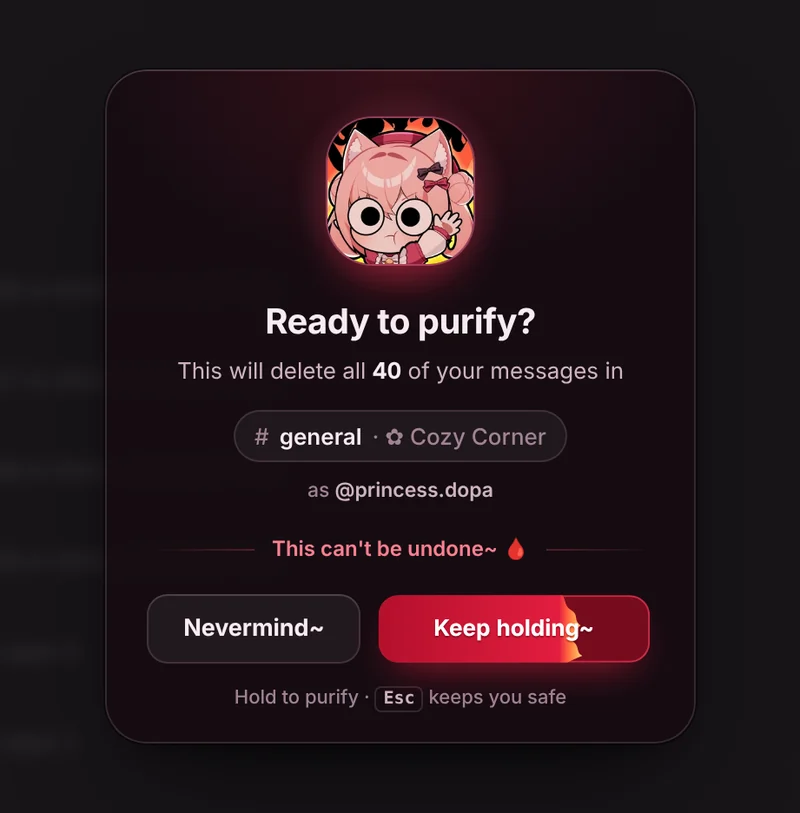
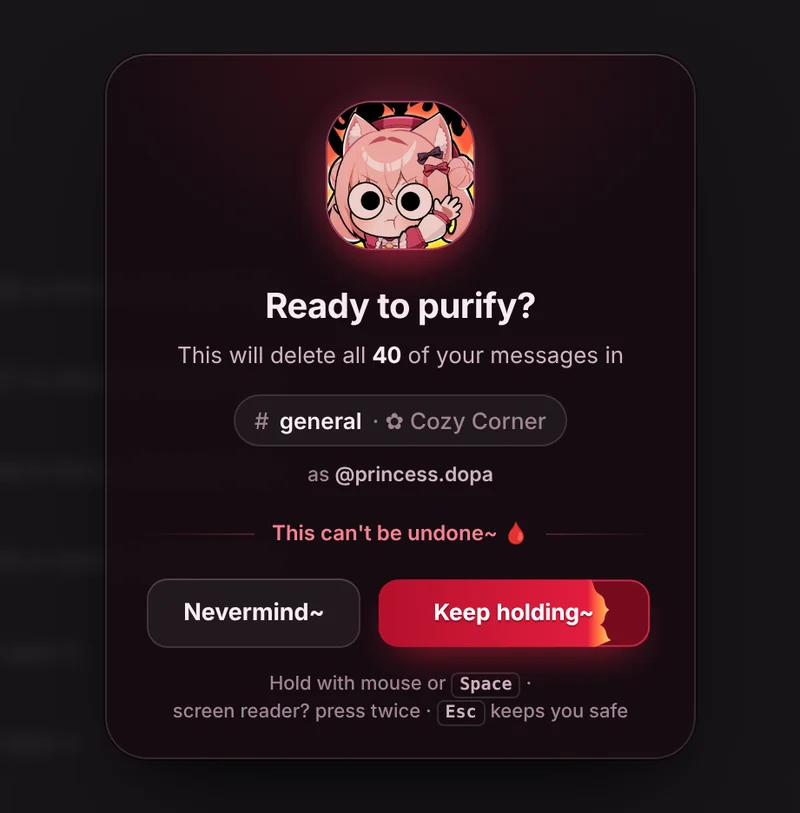
Fix the install-updates regressions and retake the page pictures
1. TIMING is read one key at a time: test/site.mjs (S15), test/shots.mjs
   and tools/marketing.py take the `const TIMING = {...}` block and match
   deleteDelayMs and searchDelayMs within it, so requestTimeoutMs (or any
   new field or reorder) no longer makes the pace check return null.
2. The safety FAQ and README no longer say "talks to Discord and nothing
   else": the userscript talks only to Discord (Tampermonkey fetches its
   updates from GitHub itself), and the BetterDiscord plugin also asks
   GitHub once each time it starts whether there's a new version. No
   servers of ours, no tracking. New site test S20 holds the wording to
   what src/betterdiscord.js does.
3. On phones, "Show the computer steps" hands focus to the pressed browser
   chip (else step 1's heading, tabindex=-1) instead of letting it drop to
   <body> when the button hides itself, and carries aria-expanded and
   aria-controls. New site test S18 presses Enter on it with iPhone and
   Android UAs and fails without the fix.
4. docs/img retaken with the documented pipeline at the shipped pace
   (build, test/shots.mjs --showcase, tools/marketing.py): welcome.webp
   shows "Purify, then hold the red button till it fills", confirm.webp
   the new hold hint, batch.webp the current strip copy; purging.webp
   re-rendered. scanned, done, immune and og.png came out byte-identical.
5. Speed claims follow the panel's own estimate (deleteDelayMs + 250 ms,
[…]

diff --git a/docs/index.html b/docs/index.html
@@ -235,12 +235,12 @@
           <p><b>On your phone, princess? ♡</b> Discord's phone app can't wear the Purifier~ Open this page on your computer and it takes two minutes ✨</p>
           <div class="note-act">
             <button class="btn btn-primary btn-sm" type="button" data-act="send-link">Send me this link</button>
-            <button class="btn btn-quiet btn-sm" type="button" data-act="show-steps" hidden>Show the computer steps</button>
+            <button class="btn btn-quiet btn-sm" type="button" data-act="show-steps" aria-controls="browser-picker setup-steps" aria-expanded="true" hidden>Show the computer steps</button>
           </div>
           <p>Firefox for Android works too: add Tampermonkey, then open discord.com in “Desktop site” mode.</p>
         </div>
       </div>
-      <div class="picker" role="group" aria-label="Your browser">
+      <div class="picker" id="browser-picker" role="group" aria-label="Your browser">
         <span>Your browser:</span>
         <button class="chip" type="button" data-browser="chrome">Chrome</button>
         <button class="chip" type="button" data-browser="edge">Edge</button>
@@ -249,10 +249,10 @@
         <button class="chip" type="button" data-browser="brave">Brave</button>
         <button class="chip" type="button" data-browser="safari">Safari</button>
       </div>
-      <ol class="steps">
+      <ol class="steps" id="setup-steps">
         <li class="step" data-step="manager">
           <div>
-            <h3>Add Tampermonkey to <span data-role="browser-name">Chrome</span></h3>
+            <h3 tabindex="-1">Add Tampermonkey to <span data-role="browser-name">Chrome</span></h3>
             <p data-role="manager-note">Free, made for exactly this. Click <b>Add to <span data-role="browser-name">Chrome</span></b> on the page that opens.</p>
           </div>
           <div class="act"><a class="btn btn-quiet btn-sm" data-role="manager-link" target="_blank" rel="noopener" href="https://www.tampermonkey.net/">Get Tampermonkey</a></div>
@@ -325,7 +325,8 @@
     <div class="eyebrow">Questions</div>
     <h2 id="faq-title">Good to know</h2>
     <details><summary>Is it safe? Does it send my login anywhere?</summary><div>
-      <p>It runs entirely in your own browser, inside Discord, using the session you're already logged in with. It talks to Discord and nothing else — no servers, no tracking. The whole thing is <a href="https://github.com/codemaker66/discord-stuff">open source</a>, so anyone can check.</p>
+      <p>It runs entirely inside your own Discord tab (or the app, with BetterDiscord), using the session you're already logged in with — your login and messages never leave Discord.</p>
+      <p>The userscript talks to Discord and nothing else; Tampermonkey itself fetches new versions of it from GitHub. The BetterDiscord plugin also asks GitHub once each time it starts whether there's a new version. No servers of ours, no tracking~ ♡ The whole thing is <a href="https://github.com/codemaker66/discord-stuff">open source</a>, so anyone can check.</p>
     </div></details>
     <details><summary>Can it delete other people's messages?</summary><div>
       <p>No. Discord only lets you delete your own messages, and the purifier only ever asks for yours. Anyone you shield (and Bardo, always~) is skipped entirely.</p>
@@ -334,10 +335,10 @@
       <p>No — deleted means deleted. That's why there's a scan first and a hold-to-confirm button. Pause or Stop any time; nothing after that point is touched.</p>
     </div></details>
     <details><summary>Could my account get in trouble?</summary><div>
-      <p>Honest answer: Discord's terms don't allow automating your account, and any tool like this carries a small risk. The purifier works at a human-ish pace (about one message a second), slows down whenever Discord asks, and never runs on its own — you start every purge. Use it at your own discretion.</p>
+      <p>Honest answer: Discord's terms don't allow automating your account, and any tool like this carries a small risk. The purifier works at a human-ish pace (about 40 messages a minute), slows down whenever Discord asks, and never runs on its own — you start every purge. Use it at your own discretion.</p>
     </div></details>
     <details><summary>How long does it take?</summary><div>
-      <p>About a second per message, because that's what Discord allows. A scan tells you the estimate up front; you can minimise the panel and keep chatting while it works. Keep the Discord tab open until it's done.</p>
+      <p>About 40 messages a minute, so 1,000 messages take around 25 minutes — a pace Discord is happy with, and slower whenever it asks for a break. A scan tells you the estimate up front; you can minimise the panel and keep chatting while it works. Keep the Discord tab open until it's done.</p>
     </div></details>
     <details><summary>How do updates work?</summary><div>
       <p>Tampermonkey checks for new versions automatically. If you want it now: Tampermonkey icon → <b>Utilities</b> → <b>Check for userscript updates</b>, or just click Install above again.</p>
@@ -415,15 +416,22 @@
   // Phones read "use your computer" first. The computer steps wait behind a button,
   // except on Firefox for Android, which really can run it.
   const PHONE = /Android|iPhone|iPad|Mobile/.test(navigator.userAgent);
+  const stepsButton = $('[data-act="show-steps"]');
   const computerSteps = (show) => {
     for (const el of $$('.setup > .picker, .setup > .steps')) el.hidden = !show;
-    $('[data-act="show-steps"]').hidden = show;
+    stepsButton.hidden = show;
+    stepsButton.setAttribute('aria-expanded', String(show));
   };
   if (PHONE) {
     $('[data-role="mobile-note"]').hidden = false;
     if (detect() !== 'firefox') computerSteps(false);
   }
-  $('[data-act="show-steps"]').addEventListener('click', () => computerSteps(true));
+  // The button hides itself once used, so hand focus to what it opened (the chosen browser, else step 1)
+  // instead of letting it fall to the top of the page.
+  stepsButton.addEventListener('click', () => {
+    computerSteps(true);
+    ($('.setup > .picker .chip[aria-pressed="true"]') || $('.setup > .steps .step h3')).focus();
+  });
 
   // ── "Installed ✓": the purifier announces itself on this page ──
   $('[data-role="latest"]').textContent = LATEST;

diff --git a/tools/marketing.py b/tools/marketing.py
@@ -28,8 +28,17 @@ def font(style, size):
 
 
 def shipped_pace():
-    timing = re.search(r'const TIMING = \{ deleteDelayMs: (\d+), searchDelayMs: (\d+) \};', (ROOT / 'src/main.js').read_text('utf8'))
-    return {'deleteDelayMs': int(timing[1]), 'searchDelayMs': int(timing[2])}
+    # Each key on its own, so a new TIMING field (or a reorder) can't make this miss.
+    block = re.search(r'const TIMING = \{([^}]*)\}', (ROOT / 'src/main.js').read_text('utf8'))
+    if not block:
+        sys.exit('src/main.js has no const TIMING block')
+    pace = {}
+    for key in ('deleteDelayMs', 'searchDelayMs'):
+        found = re.search(rf'\b{key}:\s*(\d+)', block[1])
+        if not found:
+            sys.exit(f'src/main.js: no {key} in const TIMING')
+        pace[key] = int(found[1])
+    return pace
 
 
 def main(shots):

diff --git a/README.md b/README.md
@@ -27,10 +27,14 @@ and asks before updating itself.
 - **Hold to purify** — no accidental clicks.
 - **Batch**: tick DMs, groups and server channels (threads and forum posts included), then purge them in one go.
 - **Shield** anyone and their chat is immune. Bardo is shielded from the start ♡
-- Paces itself to Discord's rate limits, pauses and resumes, and tells you honestly what was skipped.
+- Paces itself to Discord's rate limits (about 40 messages a minute), pauses and resumes,
+  and tells you honestly what was skipped.
 
-It runs inside Discord in your own browser, with the session you're already logged in with,
-and talks to Discord and nothing else.
+It runs inside Discord in your own browser (or the desktop app, with BetterDiscord), with the session
+you're already logged in with, and your login and messages never leave Discord. The userscript talks to
+Discord and nothing else; your userscript manager fetches its updates from GitHub itself. The
+BetterDiscord plugin also asks GitHub once each time it starts whether there's a new version.
+No servers of ours, no tracking ♡
 
 ## Working on it
 
